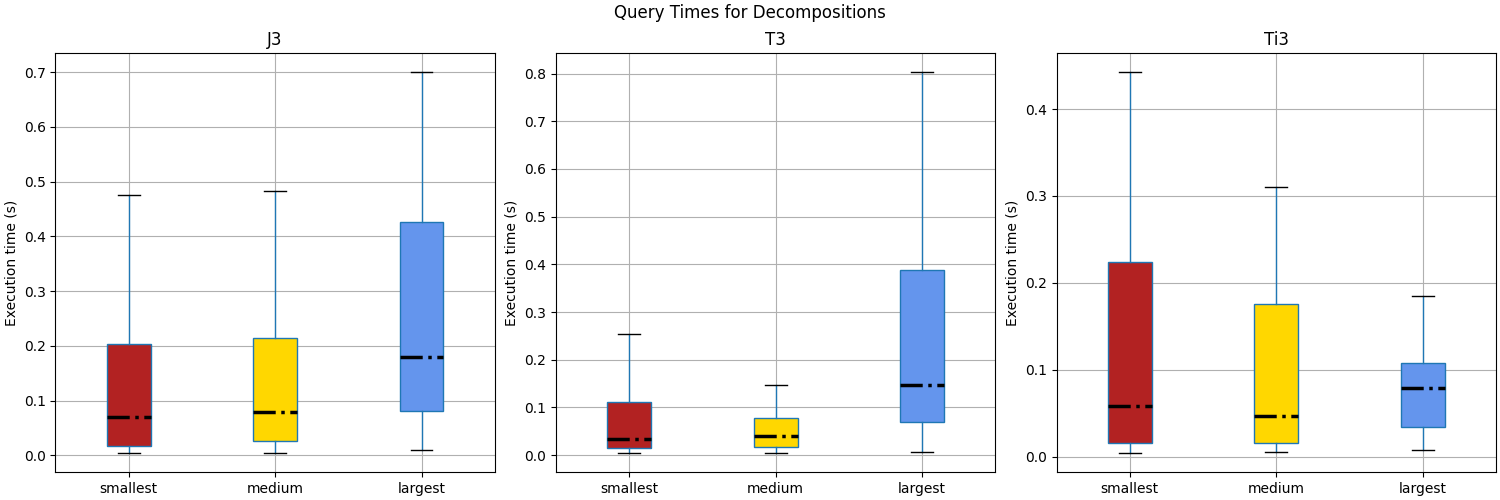
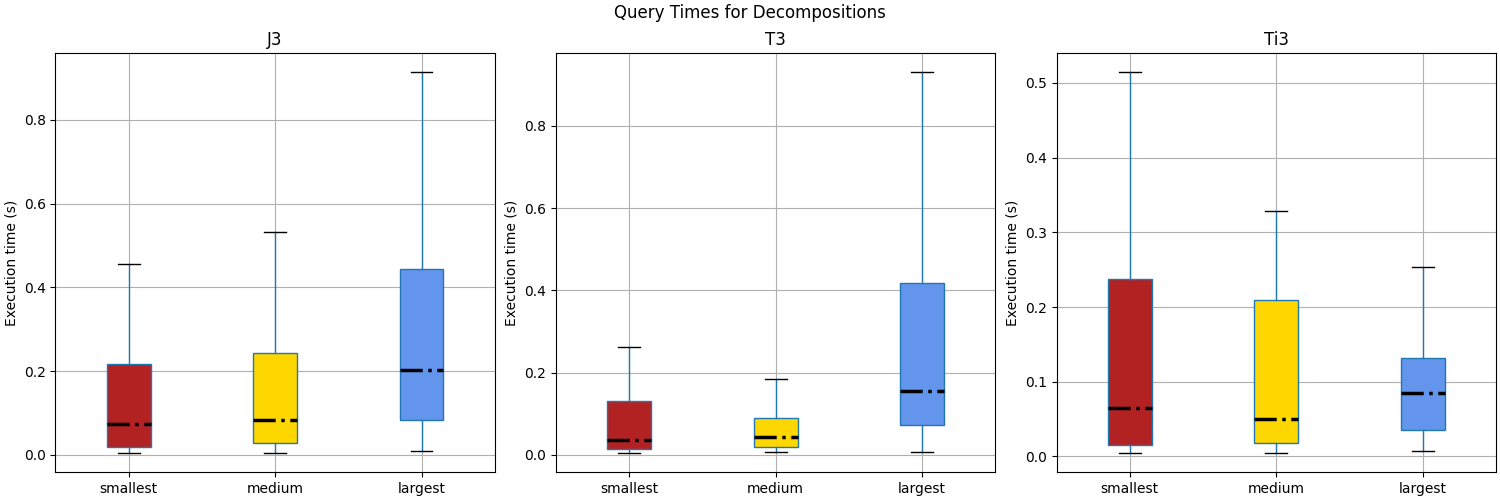
replot ghd configs comparison

diff --git a/plotter.py b/plotter.py
@@ -159,3 +159,7 @@ def yk_times():
     tdf["diff"].hist(bins=10)
     print(tdf)
     plt.savefig("outputs/pruning_diff")
+
+if __name__ == '__main__':
+    print('plotting ghd configs')
+    plot_config()
